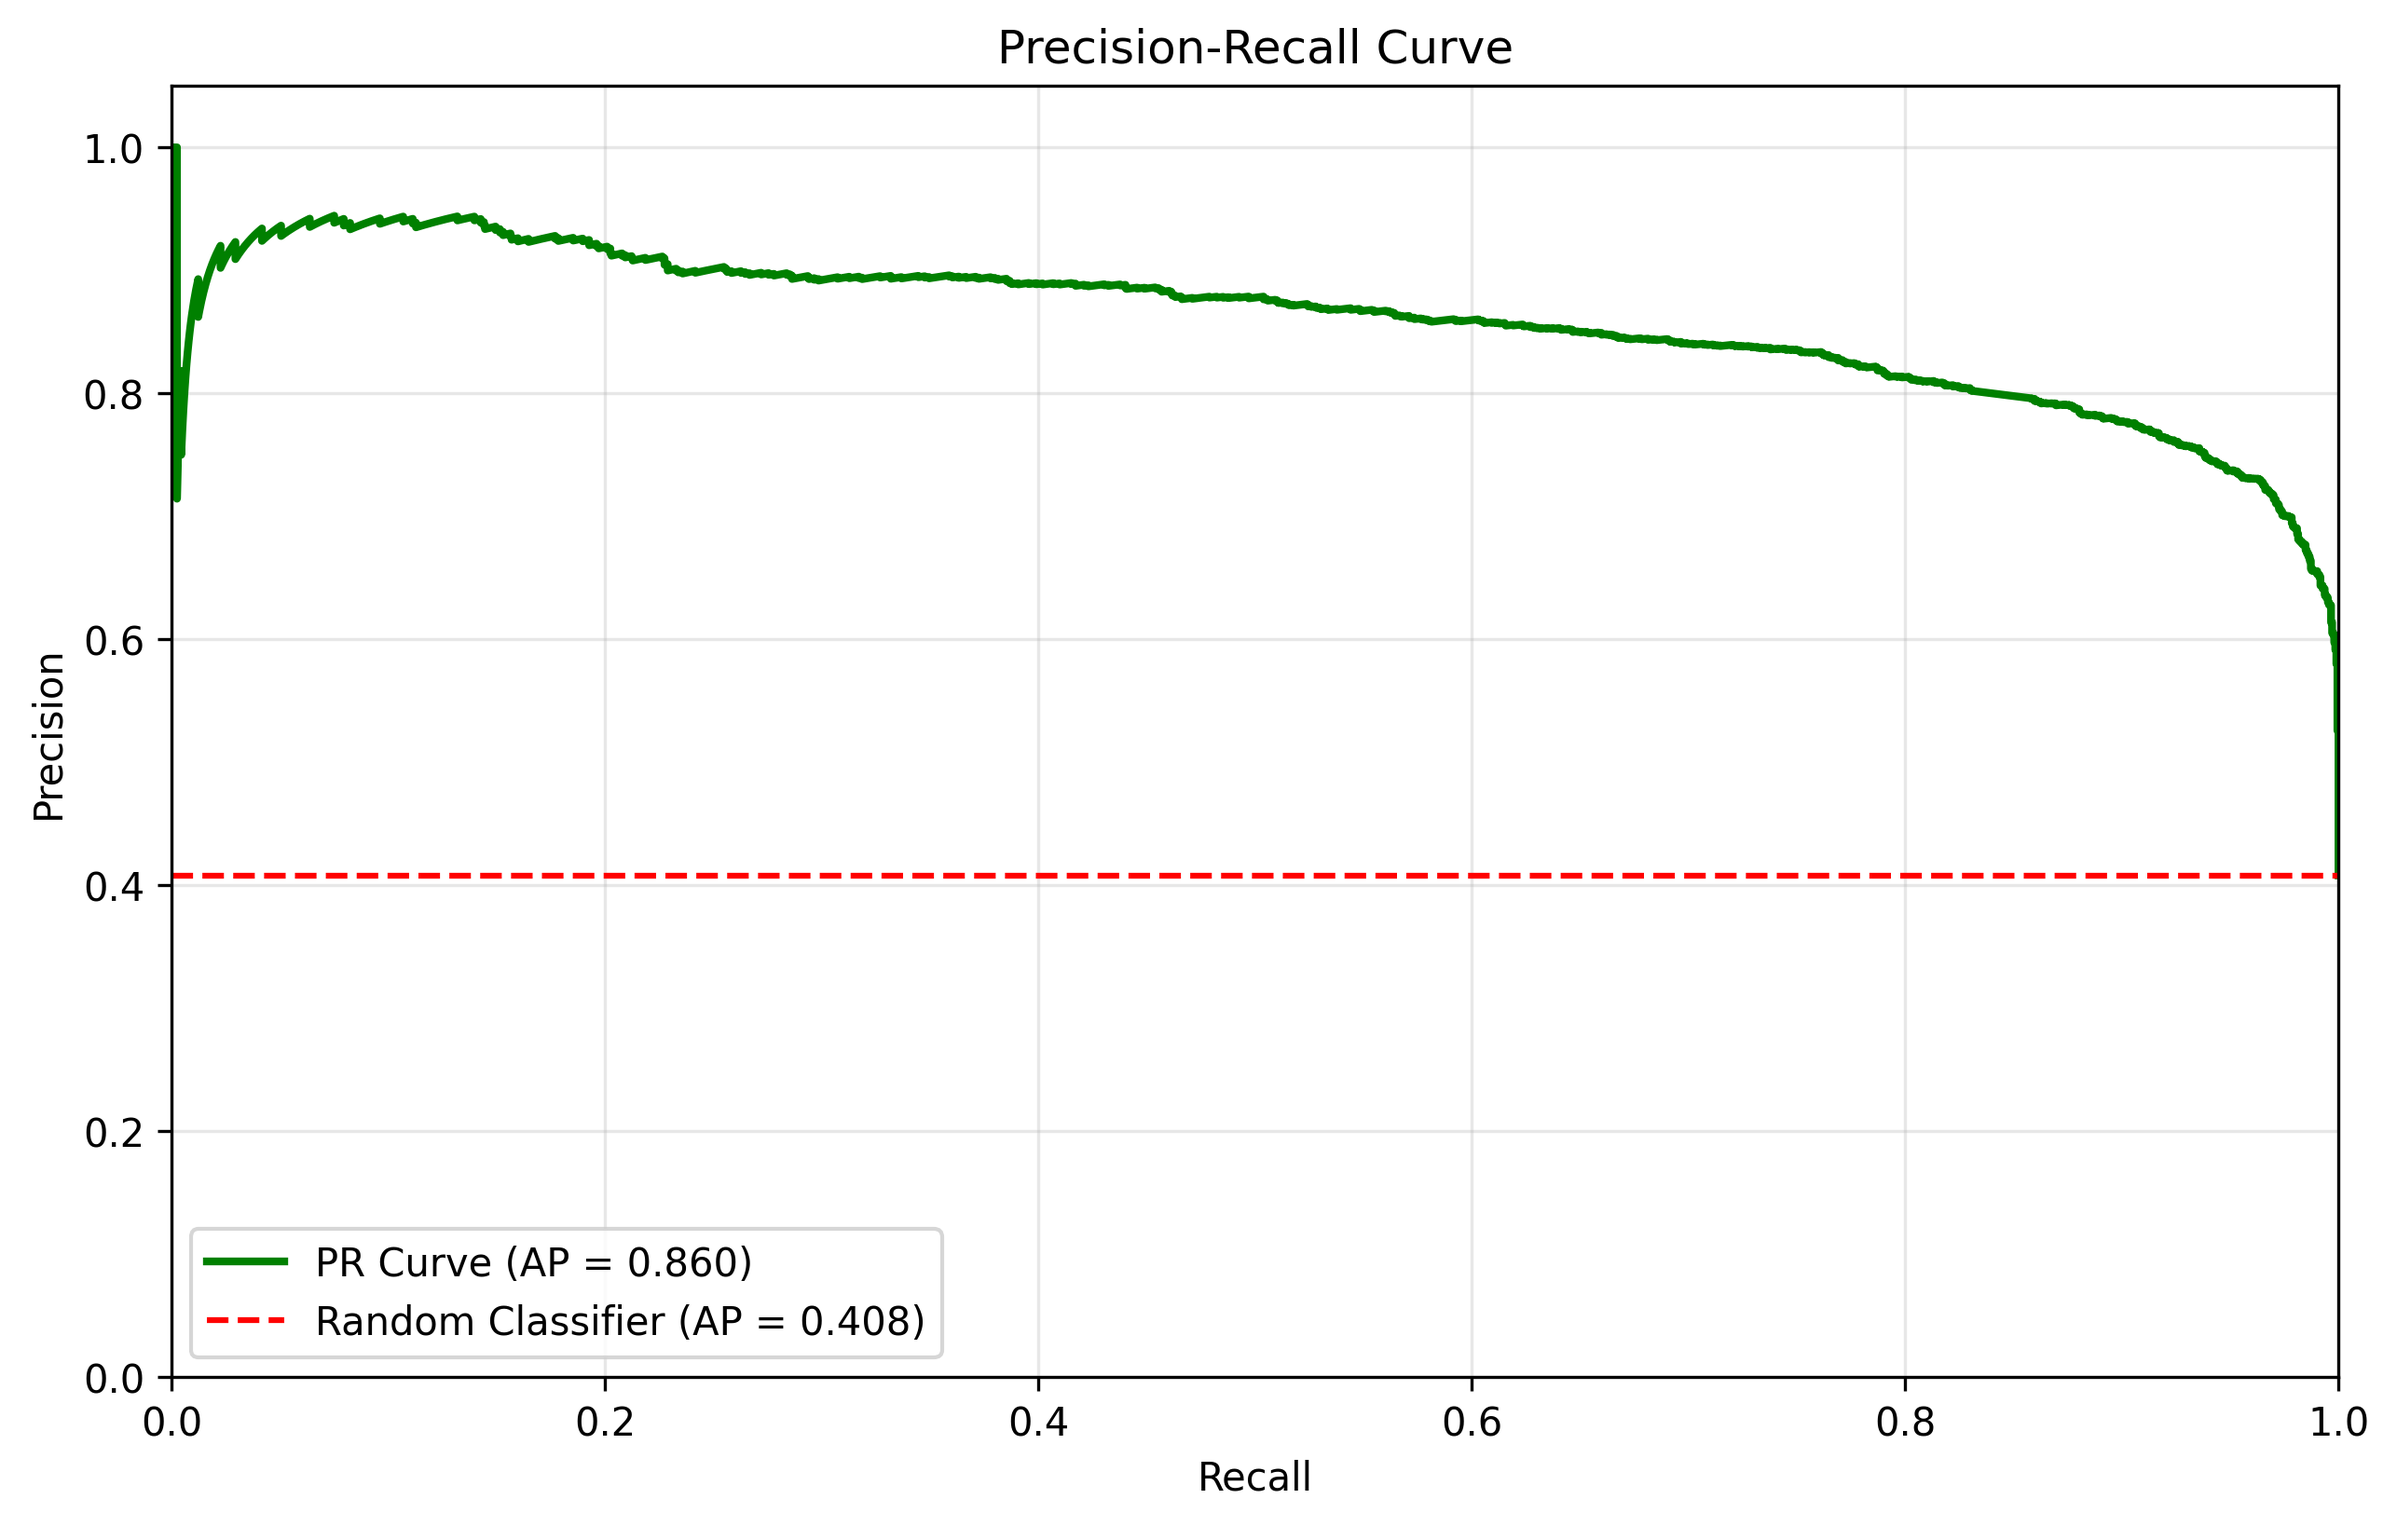
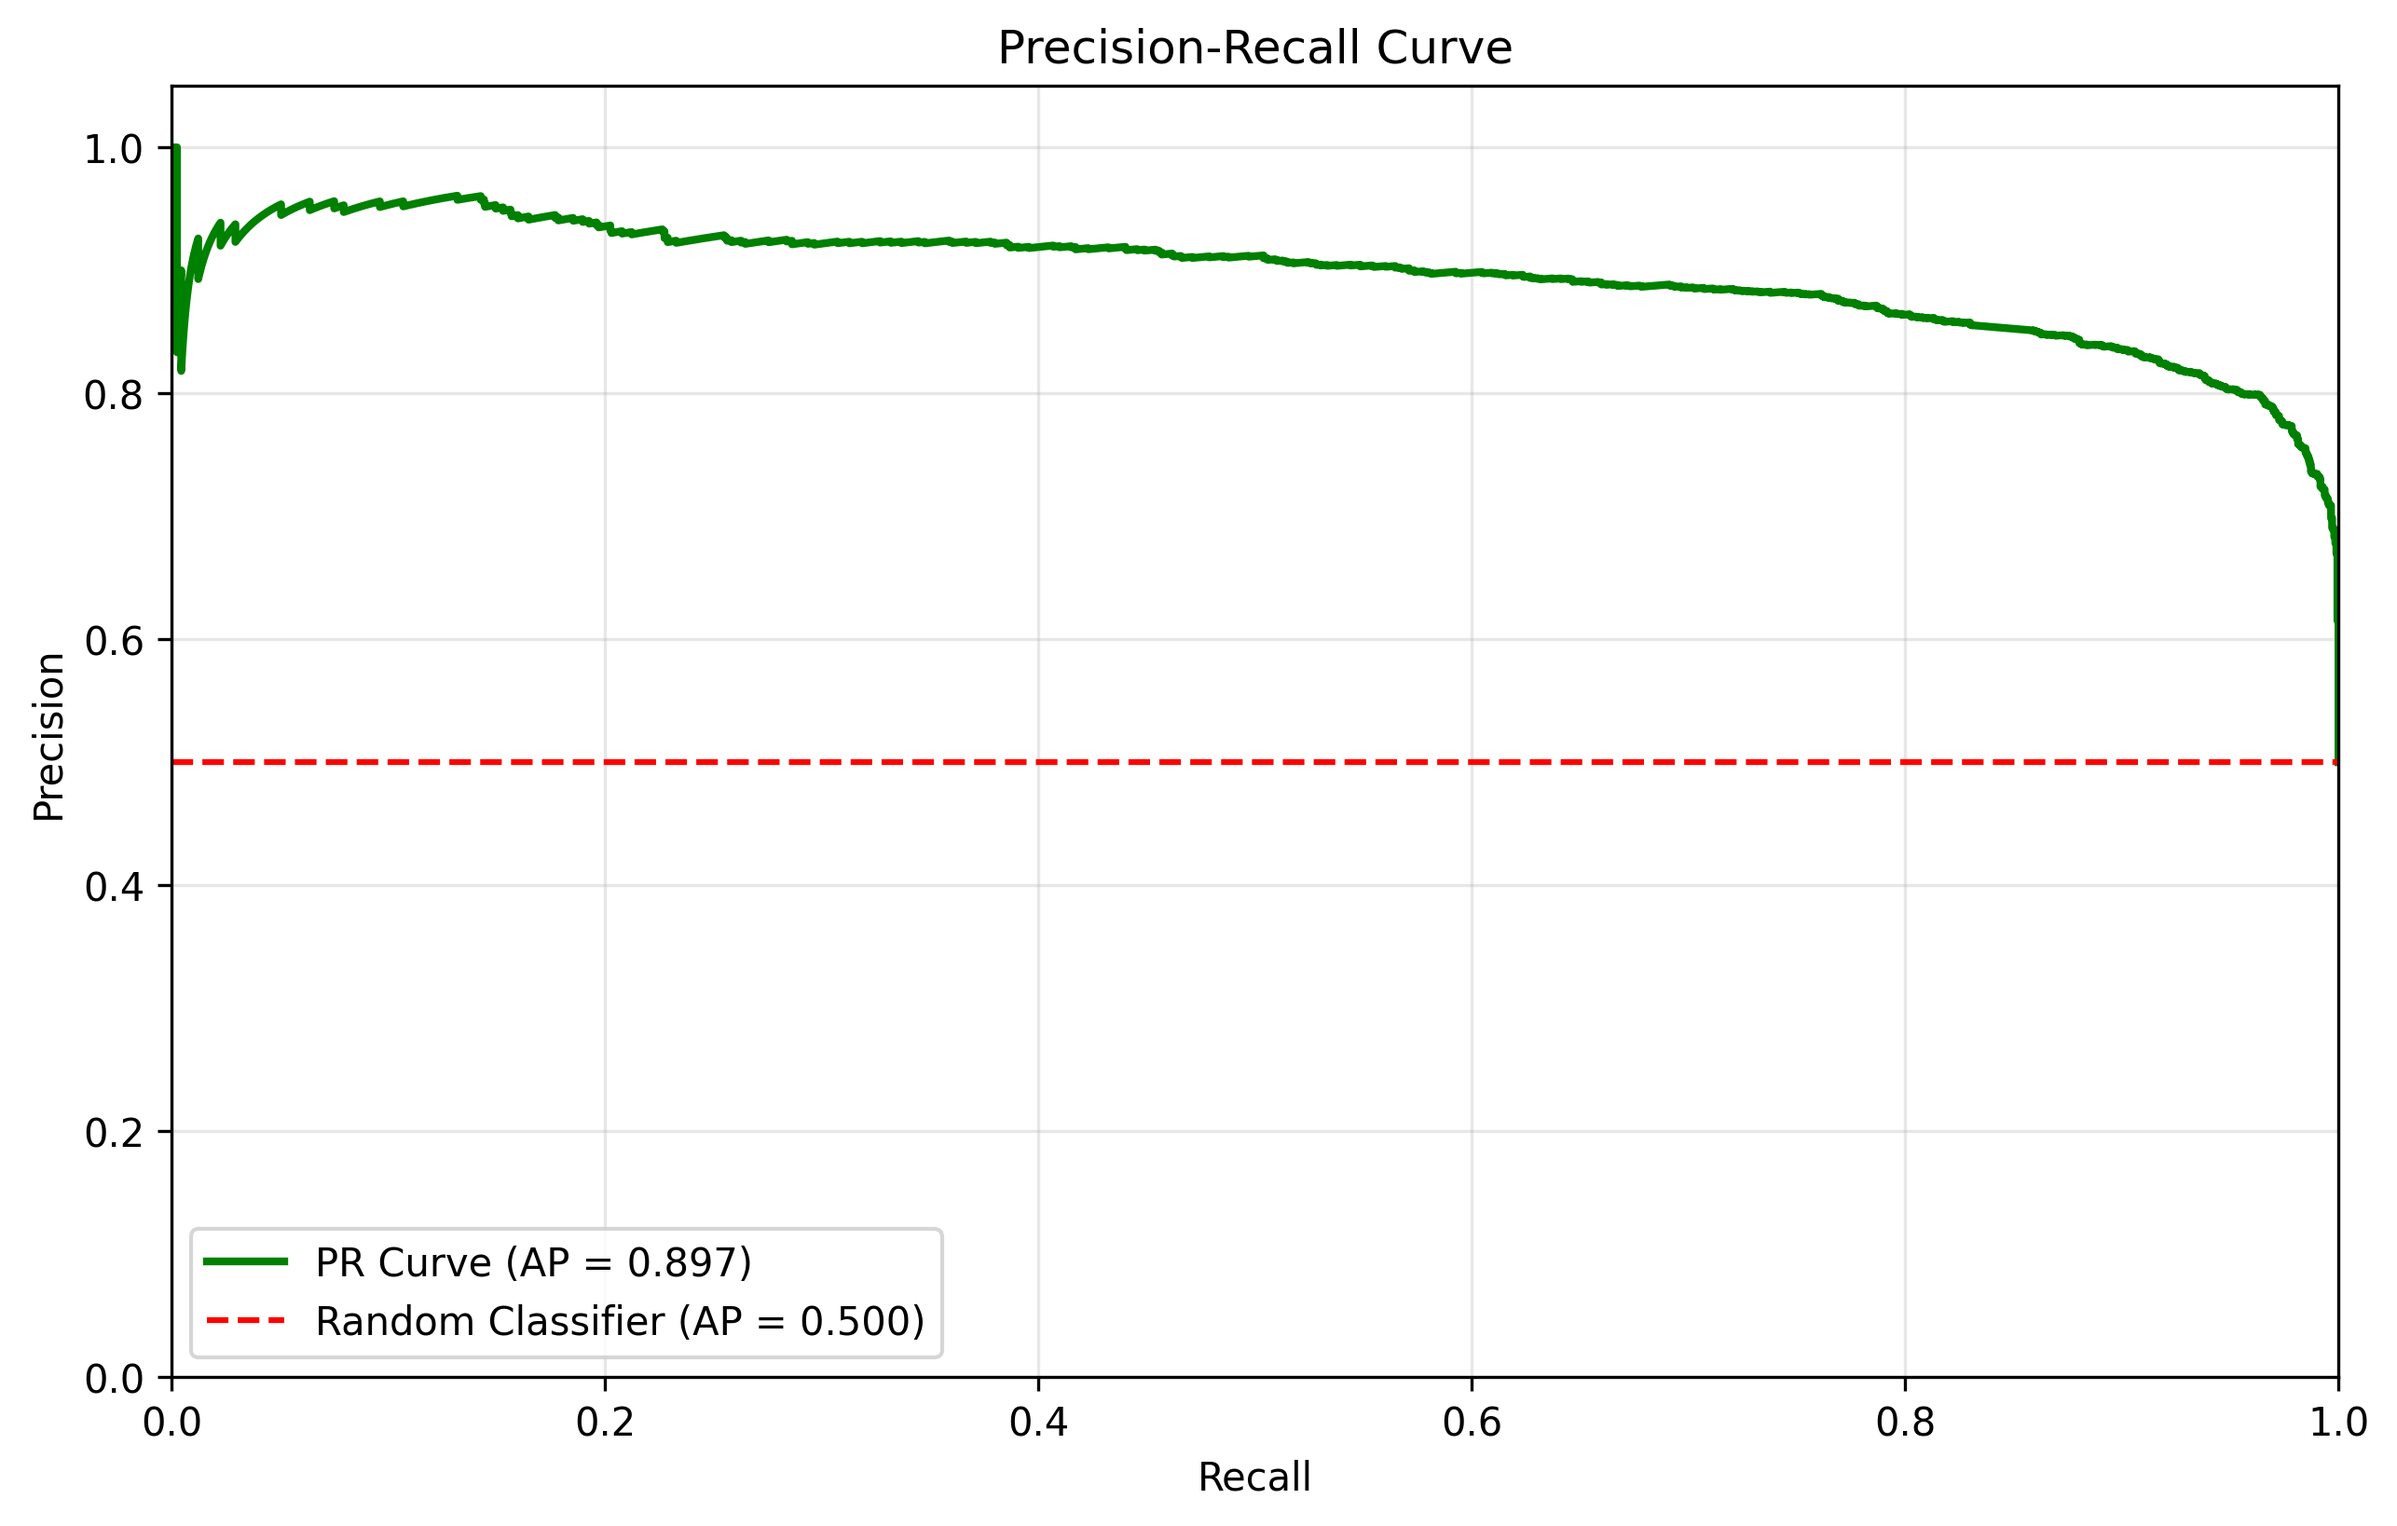
Actually balancing

diff --git a/exploration/eval_script.py b/exploration/eval_script.py
@@ -11,6 +11,7 @@ from tqdm import tqdm
 import torch
 import torch.nn as nn
 import torch.nn.functional as F
+from sklearn.utils import resample
 
 def run_model_evaluation(model, 
                         tensor_dir="data/training/dex-net_2.1/dexnet_2.1_eps_50/tensors",
@@ -156,9 +157,25 @@ def run_model_evaluation(model,
         
     # Convert to numpy arrays
     all_predictions = np.array(all_predictions)
-    all_ground_truth = np.array(all_ground_truth)
     all_metrics = np.array(all_metrics) if all_metrics else np.zeros_like(all_ground_truth) 
     
+    # Resample to make positive and negative classes balanced
+    all_ground_truth = np.array(all_ground_truth)
+    pos_indices = np.where(all_ground_truth == 1)[0]
+    neg_indices = np.where(all_ground_truth == 0)[0]
+    min_size = min(len(pos_indices), len(neg_indices))
+    pos_indices_down = resample(pos_indices, replace=False, n_samples=min_size, random_state=42)
+    neg_indices_down = resample(neg_indices, replace=False, n_samples=min_size, random_state=42)
+
+    # Combine balanced indices
+    balanced_indices = np.concatenate([pos_indices_down, neg_indices_down])
+    np.random.shuffle(balanced_indices)  # Shuffle for good measure
+
+    # Apply balancing
+    all_ground_truth = all_ground_truth[balanced_indices]
+    all_predictions = all_predictions[balanced_indices]
+    all_metrics = all_metrics[balanced_indices]
+
     # Check if we have enough data
     if len(all_predictions) == 0:
         output_lines.append("No prediction data was generated. Check for errors in batch processing.")
